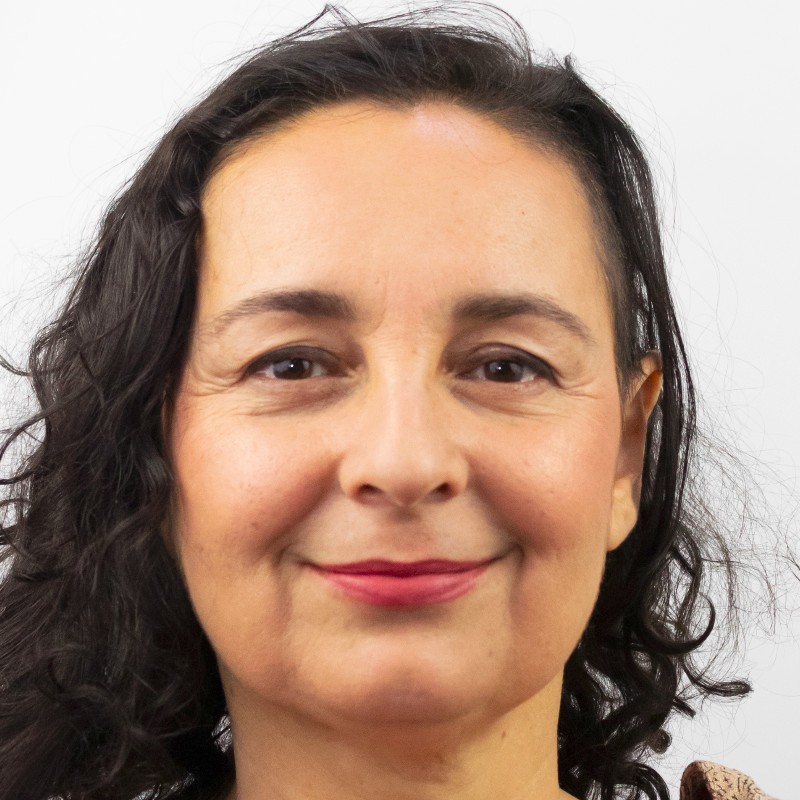
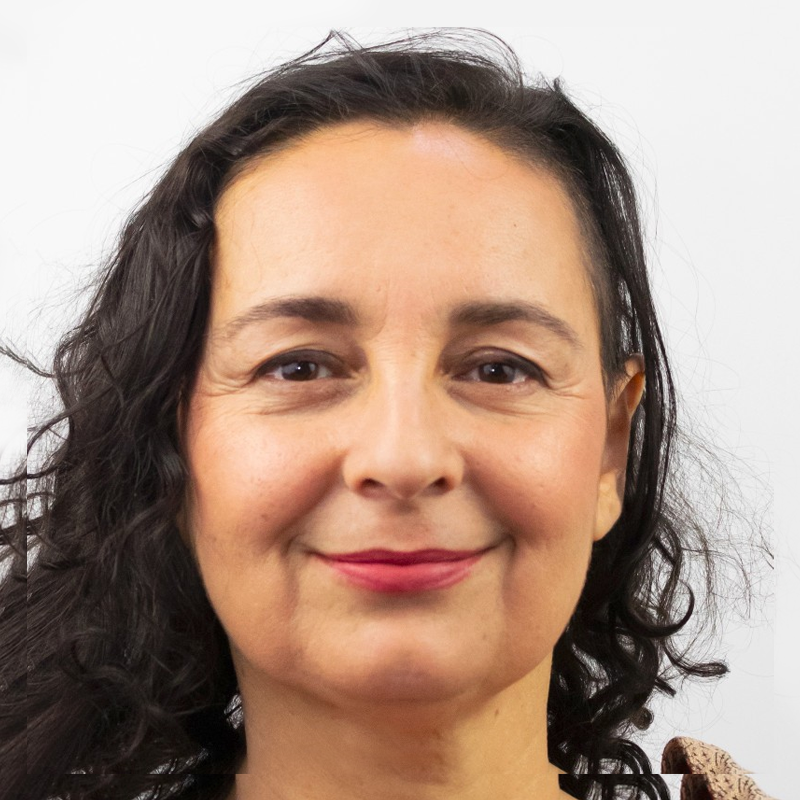
Changed CardFoto styles

diff --git a/src/components/cards/cardPhoto/_CardPhoto.scss b/src/components/cards/cardPhoto/_CardPhoto.scss
@@ -1,27 +1,36 @@
 @import '../../../scss/Variables.scss';
 
+
 .cardPhotoContainer {
     display: flex;
     justify-content: center; 
     gap: 5rem; 
     padding: 1.25rem; 
     margin-bottom: 5rem;
-    margin-top:1.75rem;
+    
   }
   
   .cardPhoto {
     width: 14rem; // Ancho de cada tarjeta
     background-color: $lightLila2;
     box-shadow: 0 0.25rem 0.5rem rgba(0, 0, 0, 0.1); 
+    border-radius: 1.25rem 1.25rem 1.25rem 0;
     display: flex;
     flex-direction: column;
     align-items: center; 
-  
+
+    .cardPhotoCircle{
+      width: 7.5rem;
+      height: 7.5rem;
+      border-radius: 4rem;
+      margin-top: 1rem;
+      overflow: hidden;
+      justify-content: center;
+    }
   }
   
   .cardPhotoImage {
-    width: 14rem;
-    height: 14rem;
+    width: 7.6rem;
     object-fit: cover; 
     image-rendering: auto;
   }
@@ -29,7 +38,7 @@
   .cardPhotoInfo {
     padding-top: 0.8rem;
     width: 100%; 
-    background-color: $lightLila2;
+
     color: $white;
     display: flex;
     flex-direction: column;
@@ -58,9 +67,8 @@
     font-size: 0.8rem;
     font-weight: $font-weight-regular;
     text-align: left;
-    margin-left: 1rem;
-    margin-right: 1rem;
-    margin-bottom: 1rem;
+    margin: 0.5rem 1rem 1rem 1rem;
+    
   }
   
   .linkedin-icon {

diff --git a/src/components/cards/cardPhoto/CardPhoto.jsx b/src/components/cards/cardPhoto/CardPhoto.jsx
@@ -4,7 +4,9 @@ import { FaLinkedin } from 'react-icons/fa'
 const CardPhoto = ({ imageUrl, name, title, linkedinUrl }) => {
     return (
       <div className='cardPhoto'>
-        <img src={imageUrl} alt={name} className='cardPhotoImage' />
+        <div className='cardPhotoCircle'>
+          <img src={imageUrl} alt={name} className='cardPhotoImage' />
+        </div>
         <div className='cardPhotoInfo'>
           <div className='cardTitleContainer'>
           <h4 className='cardPhotoName'>{name}</h4>
